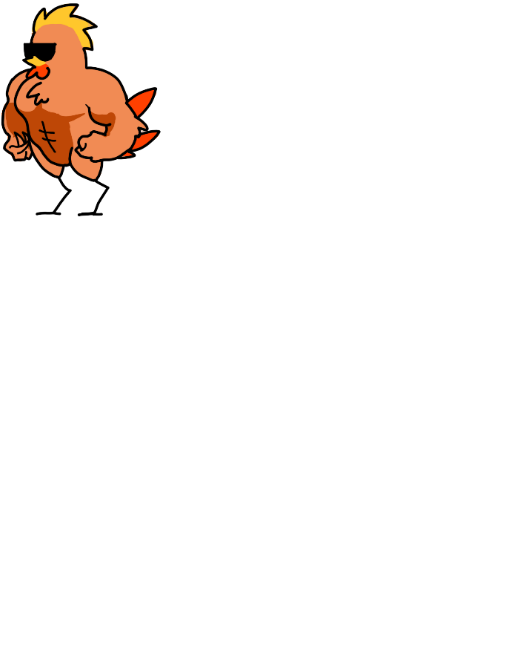
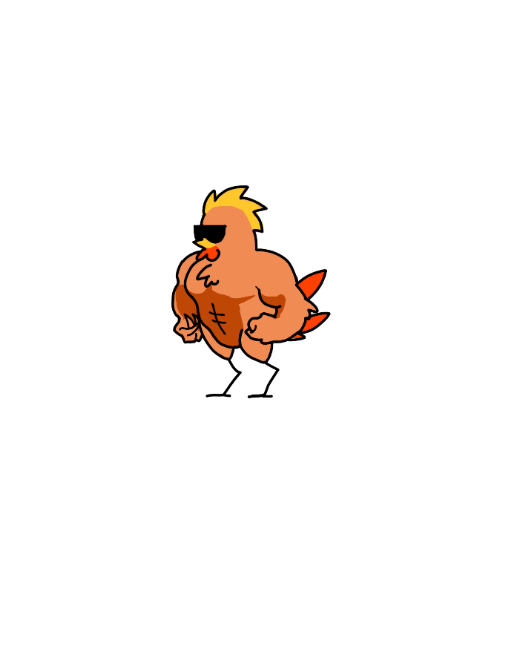
Fixed drawing and chicken collisions

Changed region(s): [[0.3077, 0.25, 0.6462, 0.5938], [0.0, 0.0, 0.3077, 0.3438], [0.1538, 0.3125, 0.1846, 0.3438]]

diff --git a/Alpha/core/src/code/game/models/Chicken.java b/Alpha/core/src/code/game/models/Chicken.java
@@ -272,7 +272,7 @@ public abstract class Chicken extends GameObject implements ChickenInterface {
         hitboxShape.setAsBox(getWidth(), getHeight()/2, sensorCenter, 0);
         hitboxDef.shape = hitboxShape;
         Fixture hitboxFixture = body.createFixture(hitboxDef);
-        hitboxFixture.setUserData(FixtureType.CHICKEN_SENSOR);
+        hitboxFixture.setUserData(FixtureType.CHICKEN_HITBOX);
 
         FixtureDef sensorDef = new FixtureDef();
         sensorDef.density = data.getFloat("density",0);
@@ -349,7 +349,9 @@ public abstract class Chicken extends GameObject implements ChickenInterface {
             return false;
     }
 
-    //TODO: comment
+    /**
+     * Start an attack
+     */
     public void startAttack() {
         if (!isRunning()) {
             hitboxOut = false;
@@ -418,7 +420,10 @@ public abstract class Chicken extends GameObject implements ChickenInterface {
      */
     public abstract void setTexture(Texture texture);
 
-    //TODO: comment
+    /**
+     * Set texture for the chicken healthbar
+     * @param texture texture for chicken healthbar
+     */
     public void setBarTexture(TextureRegion texture){
         healthBar = texture;
     }
@@ -430,8 +435,8 @@ public abstract class Chicken extends GameObject implements ChickenInterface {
      */
     public void draw(GameCanvas canvas) {
         if (!isInvisible) {
-            canvas.draw(healthBar, Color.FIREBRICK, 0, origin.y, getX() * drawScale.x-17, getY() * drawScale.y+40, getAngle(), 0.08f, 0.025f);
-            canvas.draw(healthBar, Color.GREEN,     0, origin.y, getX() * drawScale.x-17, getY() * drawScale.y+40, getAngle(), 0.08f*(health/max_health), 0.025f);
+            canvas.draw(healthBar, Color.FIREBRICK, 0, origin.y, getX() * drawScale.x-17, getY() * drawScale.y+50, getAngle(), 0.08f, 0.025f);
+            canvas.draw(healthBar, Color.GREEN,     0, origin.y, getX() * drawScale.x-17, getY() * drawScale.y+50, getAngle(), 0.08f*(health/max_health), 0.025f);
         }
     }
 
@@ -455,7 +460,6 @@ public abstract class Chicken extends GameObject implements ChickenInterface {
      */
     public void takeDamage(float damage) {
         if (!isStunned) {
-            System.out.println("ouchie");
 
             if (status_timer >= 0) {
                 health -= damage * FIRE_MULT;

diff --git a/Alpha/core/src/code/game/controllers/CollisionController.java b/Alpha/core/src/code/game/controllers/CollisionController.java
@@ -159,7 +159,7 @@ public class CollisionController implements CollisionControllerInterface {
         private void slapCollision(Slap s1, FixtureType fd1, GameObject bd2, FixtureType fd2){
         //TODO make slap class
             switch(fd2){
-                case CHICKEN_SENSOR:
+                case CHICKEN_HITBOX:
                     handleChickenSlap((Chicken)bd2, fd2, s1, fd1);
                     break;
                 case TRAP_ACTIVATION:

diff --git a/Alpha/core/src/code/game/models/GameObject.java b/Alpha/core/src/code/game/models/GameObject.java
@@ -33,7 +33,7 @@ public abstract class GameObject extends BoxObstacle {
         //attacks
         BASIC_ATTACK,
         //other
-        CHEF_SENSOR, CHICKEN_SENSOR, SLAP_SENSOR, STOVE_SENSOR, PLACE_SENSOR
+        CHEF_SENSOR, CHICKEN_SENSOR, SLAP_SENSOR, STOVE_SENSOR, PLACE_SENSOR, CHICKEN_HITBOX
     }
 
     public GameObject(float x, float y, float width, float height, ObjectType o){

diff --git a/Alpha/core/src/code/game/models/ShreddedChicken.java b/Alpha/core/src/code/game/models/ShreddedChicken.java
@@ -89,7 +89,7 @@ public class ShreddedChicken extends Chicken {
      * @param texture  the object texture for drawing purposes.
      */
     public void setTexture(Texture texture) {
-        animator = new FilmStrip(texture, 3, 5);
+        animator = new FilmStrip(texture, 1, 1);
         origin = new Vector2(animator.getRegionWidth()/2.0f, animator.getRegionHeight()/2.0f);
     }
 

diff --git a/Alpha/core/src/code/game/models/BuffaloChicken.java b/Alpha/core/src/code/game/models/BuffaloChicken.java
@@ -51,7 +51,6 @@ public class BuffaloChicken extends Chicken {
                 setAttackType(ChickenAttack.AttackType.Charge);
                 // No sounds for buffalo yet
                 //soundCheck = true;
-                System.out.println("Make new attack");
                 makeAttack = true;
             }
             hitboxOut = true;

diff --git a/Alpha/core/src/code/game/controllers/AIController.java b/Alpha/core/src/code/game/controllers/AIController.java
@@ -223,7 +223,6 @@ public class AIController {
                 chicken.setForceCache(temp, true);
                 break;
             case STUNNED:
-                System.out.println("stun");
                 temp.setZero();
                 chicken.setForceCache(temp, true);
                 break;
